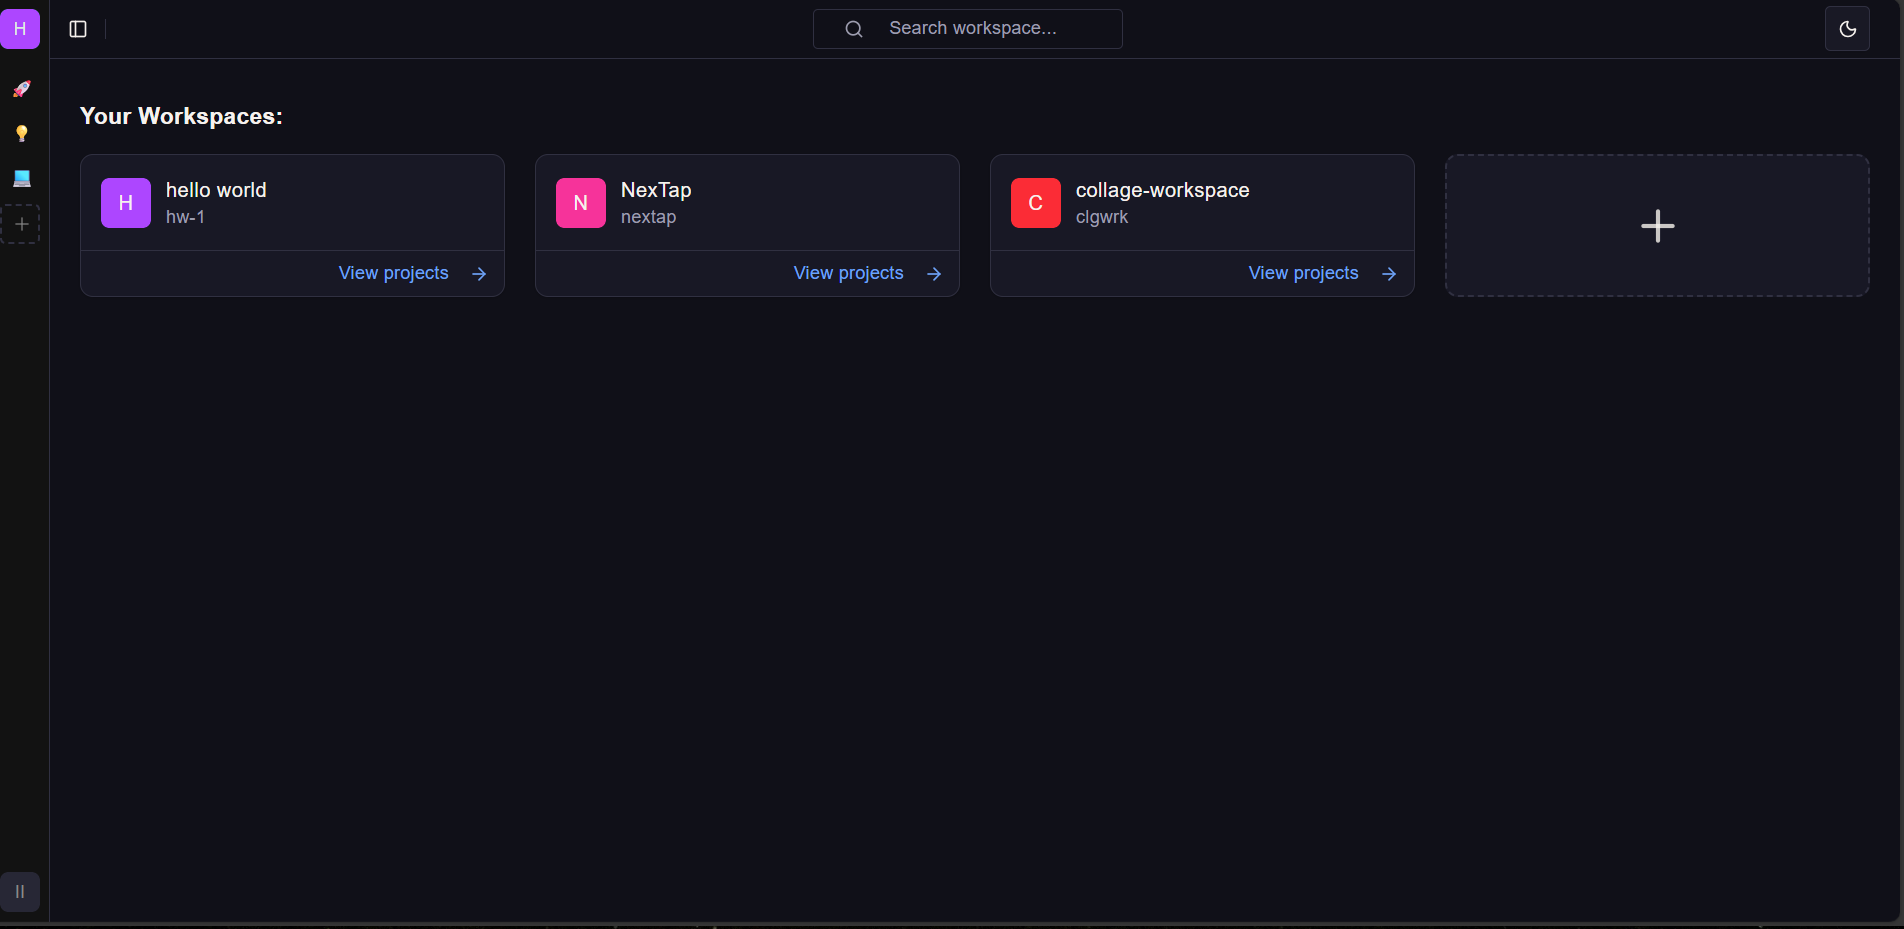
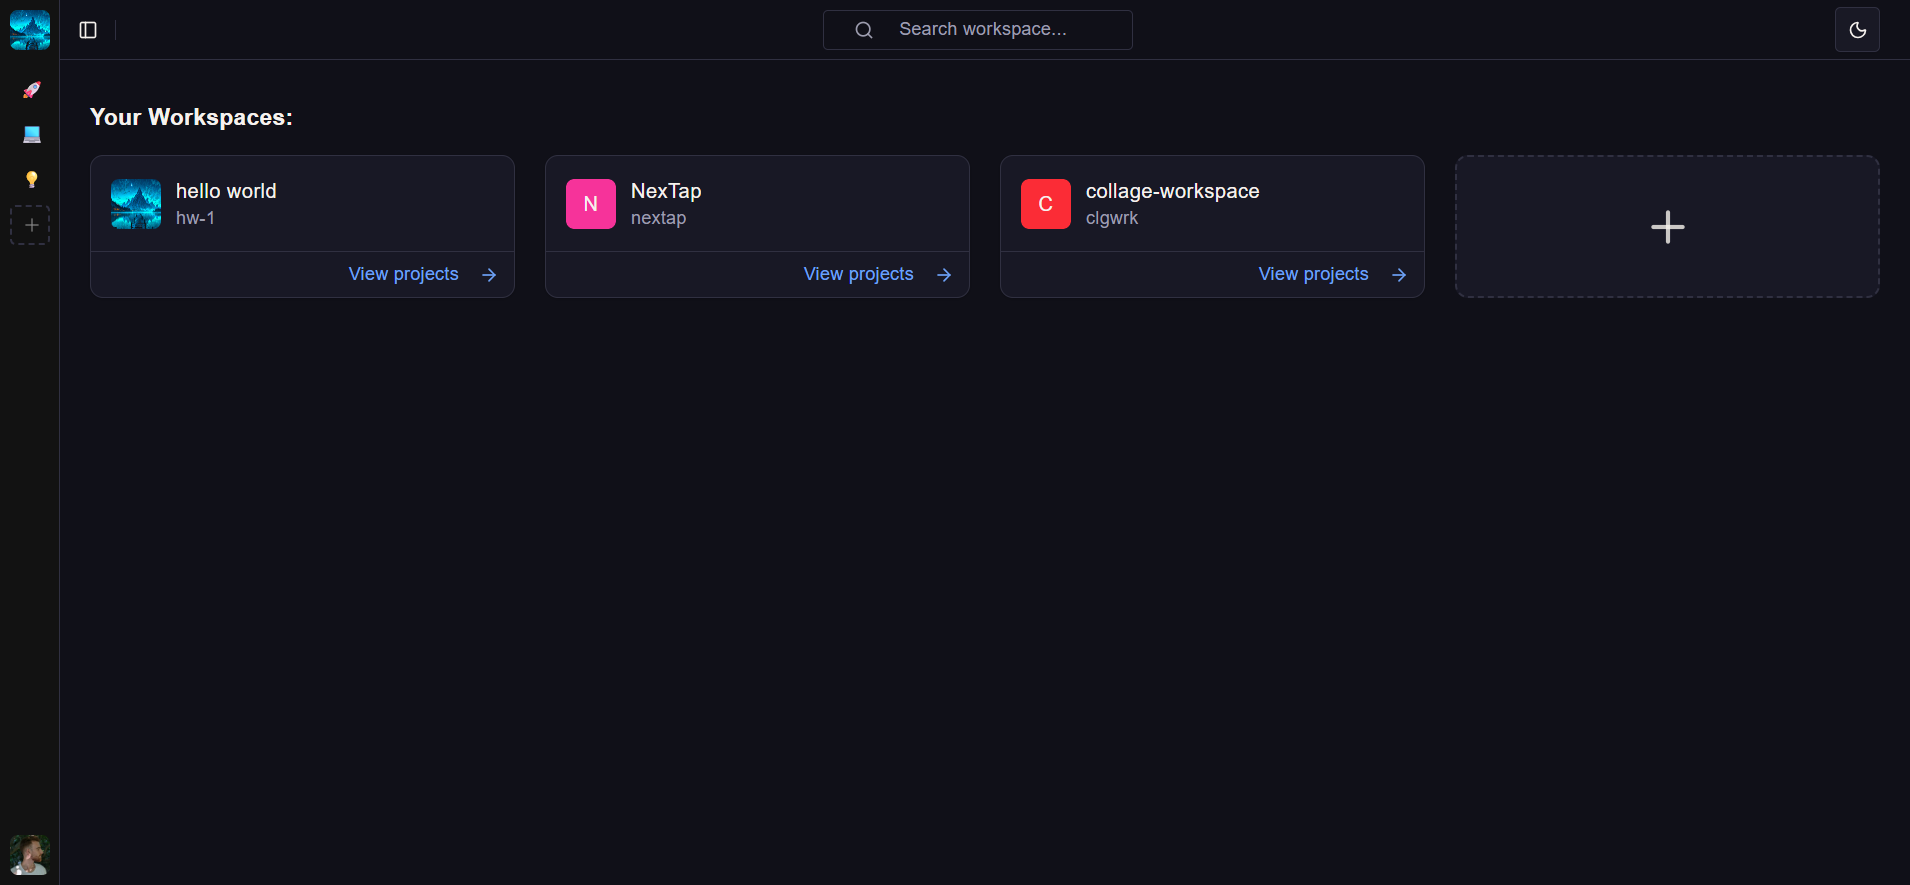
feat: Add new sections and components for portfolio
- Introduced AboutSection and TimelineAchievements components to enhance the About page.
- Updated layout metadata for improved SEO and branding.
- Created new ProjectsSection and AllProjectsSection components for better project display.
- Implemented TechnologiesSection to showcase technologies used in projects.
- Added ContactForm component for user inquiries with email integration.
- Refactored project-related components and organized project data structure.
- Added new project images and updated existing ones for better visual representation.
- Created shared components like SectionHeader, TextBox, and WrapperContainer for consistent styling.
- Added animated layout transitions for improved user experience.
- Included web app manifest for PWA support and added icons for better branding.

diff --git a/helpers/projects-array.ts b/helpers/projects-array.ts
@@ -1,8 +1,15 @@
-import { Betterauth } from "@/components/logos/better-auth-logo";
-import { ViteLogo } from "@/components/logos/vite-logo";
 import nexTapDarkScreen from "@/public/projects/nexTap-screen-dark.png";
 import nexTapLightScreen from "@/public/projects/nexTap-screen-light.png";
+import vibifyScreen from "@/public/projects/vibify-screen.png";
+import cryptoScreenLight from "@/public/projects/crypto-screen-light.png";
+import cryptoScreenDark from "@/public/projects/crypto-screen-dark.png";
+import pulseScreenLight from "@/public/projects/pulse-screen-light.png";
+import pulseScreenDark from "@/public/projects/pulse-screen-dark.png";
+
 import { Project } from "@/types/project-type";
+
+import { Betterauth } from "@/components/logos/better-auth-logo";
+import { ViteLogo } from "@/components/logos/vite-logo";
 import { RiSupabaseFill } from "react-icons/ri";
 import { SiClerk, SiDrizzle, SiHono, SiNextdotjs, SiPrisma, SiReact, SiShadcnui } from "react-icons/si";
 
@@ -33,8 +40,8 @@ export const projects: Project[] = [
             { icon: SiShadcnui, text: "Shadcn UI", color: "text-foreground" },
             { icon: SiHono, text: "Hono", color: "text-[#e36002]" },
         ],
-        lightImage: nexTapLightScreen,
-        darkImage: nexTapDarkScreen
+        lightImage: pulseScreenLight,
+        darkImage: pulseScreenDark
     },
     {
         title: "Vibify",
@@ -46,8 +53,8 @@ export const projects: Project[] = [
             { icon: SiReact, text: "React", color: "text-[#58c4dc]" },
             { icon: RiSupabaseFill, text: "Supabase", color: "text-[#006239]" },
         ],
-        lightImage: nexTapLightScreen,
-        darkImage: nexTapDarkScreen
+        lightImage: vibifyScreen,
+        darkImage: vibifyScreen
     },
     {
         title: "crypto-currency-project",
@@ -60,7 +67,7 @@ export const projects: Project[] = [
             { icon: SiClerk, text: "Clerk", color: "text-foreground" },
             { icon: SiPrisma, text: "Prisma ORM", color: "text-foreground" },
         ],
-        lightImage: nexTapLightScreen,
-        darkImage: nexTapDarkScreen
+        lightImage: cryptoScreenLight,
+        darkImage: cryptoScreenDark
     },
 ]

diff --git a/components/hero-sections.tsx b/components/hero-sections.tsx
@@ -3,6 +3,7 @@ import { Mail } from "lucide-react";
 import Link from "next/link";
 import { SiGithub, SiLinkedin } from "react-icons/si";
 import { AnimatedButton } from "./shared/animated-button";
+import { Tooltip, TooltipContent, TooltipTrigger } from "./ui/tooltip";
 
 const GITHUB_ACCOUNT_LINK = process.env.NEXT_PUBLIC_GITHUB_ACCOUNT_LINK!
 const LINKEDIN_ACCOUNT_LINK = process.env.NEXT_PUBLIC_LINKEDIN_ACCOUNT_LINK!
@@ -27,13 +28,22 @@ export function HeroSection() {
             </div>
             {/* Contact buttons */}
             <div className="flex sm:flex-wrap gap-3 mt-6  lg:justify-start">
-                <AnimatedButton>
-                    <Link
-                        href={`mailto:${MY_EMAIL}?subject=Portfolio Inquiry`} className="flex items-center gap-x-1">
-                        <Mail className="h-4 w-4" />
-                        Email Me
-                    </Link>
-                </AnimatedButton>
+                <Tooltip>
+                    <AnimatedButton>
+                        <div>
+                            <TooltipTrigger asChild>
+                                <Link
+                                    href={`mailto:${MY_EMAIL}?subject=Portfolio Inquiry`} className="flex items-center gap-x-1">
+                                    <Mail className="h-4 w-4" />
+                                    Contact Me
+                                </Link>
+                            </TooltipTrigger>
+                            <TooltipContent>
+                                Opens email to: {MY_EMAIL}
+                            </TooltipContent>
+                        </div>
+                    </AnimatedButton>
+                </Tooltip>
                 <AnimatedButton variant={"outline"}>
                     <Link href={LINKEDIN_ACCOUNT_LINK} target="_blank" className="flex items-center gap-x-1">
                         <SiLinkedin className="size-4" />

diff --git a/components/project/project-card.tsx b/components/project/project-card.tsx
@@ -18,19 +18,20 @@ interface ProjectCardProps {
 
 export function ProjectCard({ project }: ProjectCardProps) {
     return (
-        <Card className="p-0 group cursor-pointer relative overflow-hidden transition-all duration-500 hover:shadow-2xl hover:-translate-y-2">
-            <CardContent className="p-0 relative w-full h-48 overflow-hidden">
+        <Card className="p-0 w-full group cursor-pointer overflow-hidden transition-all duration-500 hover:shadow-2xl hover:-translate-y-2">
+            <CardContent className="p-0 relative w-full aspect-video">
                 <div className="absolute inset-0 bg-linear-to-br from-primary/10 to-transparent opacity-0 group-hover:opacity-100 transition-opacity duration-500 z-10" />
                 <Image
                     src={project.lightImage}
                     alt="NexTap project-light screen"
-                    className="transition-all duration-700 group-hover:scale-110 group-hover:rotate-1 dark:hidden"
+                    className="transition-all duration-500 group-hover:scale-105 dark:hidden object-fill"
                     fill
                 />
+
                 <Image
                     src={project.darkImage}
-                    alt="NexTap project-light screen"
-                    className="transition-all duration-700 group-hover:scale-110 group-hover:rotate-1 hidden dark:block"
+                    alt="NexTap project-dark screen"
+                    className="transition-all duration-500 group-hover:scale-105 hidden dark:block object-fill"
                     fill
                 />
                 {/* view code & view demo icons section*/}

diff --git a/app/layout.tsx b/app/layout.tsx
@@ -5,7 +5,7 @@ import { Merriweather, JetBrains_Mono } from "next/font/google";
 import "./globals.css";
 import { StripedPattern } from "@/components/magicui/striped-pattern";
 import { Footer } from "@/components/footer";
-import { AnimatedLayout } from "@/components/animated-layout";
+import { AnimatedLayout } from "@/components/shared/animated-layout";
 import { Toaster } from "sonner";
 
 const merriweather = Merriweather({
@@ -19,9 +19,31 @@ const jetBrains_Mono = JetBrains_Mono({
 });
 
 export const metadata: Metadata = {
-  title: "Create Next App",
-  description: "Generated by create next app",
-};
+  title: {
+    default: 'Ibrahim Ibrahim - Frontend Developer & React Specialist',
+    template: '%s | Ibrahim Ibrahim'
+  },
+  description: 'Passionate Frontend Developer specializing in React, Next.js, TypeScript, and modern web development. Creating fast, accessible, and visually stunning web applications with clean, maintainable code.',
+
+  keywords: [
+    'Frontend Developer',
+    'React Developer',
+    'Next.js Developer',
+    'TypeScript',
+    'Web Development',
+    'Portfolio',
+    'UI Developer',
+    'JavaScript Developer'
+  ],
+
+  openGraph: {
+    title: 'Ibrahim Ibrahim - Frontend Developer',
+    description: 'Specializing in React, Next.js, and modern web technologies',
+    type: 'website',
+    locale: 'en_US',
+    siteName: 'Ibrahim Ibrahim Portfolio',
+  },
+}
 
 export default function RootLayout({
   children,

diff --git a/components/project/projects-section.tsx b/components/project/projects-section.tsx
@@ -1,10 +1,10 @@
 "use client";
-import WrapperContainer from "@/components/wrapper";
+import WrapperContainer from "@/components/shared/wrapper";
 import { projects } from "@/helpers/projects-array";
 import Link from "next/link";
 import { ProjectCard } from "./project-card";
-import { AnimatedButton } from "./shared/animated-button";
-import { TextBox } from "./text-box";
+import { AnimatedButton } from "../shared/animated-button";
+import { TextBox } from "../shared/text-box";
 import { motion } from "motion/react";
 
 const containerVariants = {
@@ -29,12 +29,12 @@ const itemVariants = {
 };
 
 export function ProjectsSection() {
-  const subProjects = projects.slice(0, 3); // get only the first 3 projects
+  const subProjects = projects.slice(0, 2); // get only the first 2 projects
   return (
     <div className="relative">
       <WrapperContainer>
         <TextBox text="I love building things " />
-        <motion.div className="grid sm:grid-cols-2 md:grid-cols-3 gap-4 mb-4"
+        <motion.div className="grid sm:grid-cols-2 gap-4 mb-4"
           variants={containerVariants}
           initial="hidden"
           animate="visible">

diff --git a/app/contact/page.tsx b/app/contact/page.tsx
@@ -1,12 +1,17 @@
-import ContactForm from "@/components/contact-form";
-import SectionHeader from "@/components/section-header";
-import WrapperContainer from "@/components/wrapper";
+import ContactForm from "@/components/contact/contact-form";
+import SectionHeader from "@/components/shared/section-header";
+import WrapperContainer from "@/components/shared/wrapper";
+import { Metadata } from "next";
+
+export const metadata: Metadata = {
+    title: 'Contact',
+    description: 'Get in touch with Ibrahim Ibrahim for web development projects, collaborations, or opportunities. Available for full-time & part-time roles.',
+}
 
 export default function ContactPage() {
     return (
         <div className="pb-16">
             <div className="py-8 md:py-10 px-6 md:px-8 max-w-3xl">
-
                 <SectionHeader title="Contact Me" description={
                     <>
                         Currently open to software engineering opportunities. I specialize in building <span className="font-semibold text-primary/80"> modern, performant web applications </span> with a focus on clean UI and maintainable code architecture.

diff --git a/components/project/all-projects-section.tsx b/components/project/all-projects-section.tsx
@@ -1,16 +1,16 @@
 "use client";
 
-import WrapperContainer from "@/components/wrapper";
-import { ProjectCard } from "./project-card";
+import WrapperContainer from "@/components/shared/wrapper";
 import { projects } from "@/helpers/projects-array";
 import { motion } from "motion/react";
+import { ProjectCard } from "./project-card";
 
 export function AllProjectsSection() {
     return (
         <div className="relative">
             <WrapperContainer>
                 <motion.div
-                    className="grid sm:grid-cols-2 md:grid-cols-3 gap-4 mb-4">
+                    className="grid sm:grid-cols-2 gap-4 mb-4">
                     {projects.map((project, index) => (
                         <motion.div key={project.title}
                             initial={{ opacity: 0, y: 20 }}

diff --git a/components/contact/contact-form.tsx b/components/contact/contact-form.tsx
@@ -12,8 +12,8 @@ import emailjs from '@emailjs/browser';
 import { zodResolver } from "@hookform/resolvers/zod";
 import { Controller, useForm } from "react-hook-form";
 import { toast } from "sonner";
-import { InputGroup, InputGroupAddon, InputGroupText, InputGroupTextarea } from "./ui/input-group";
-import { Spinner } from "./ui/spinner";
+import { InputGroup, InputGroupTextarea, InputGroupAddon, InputGroupText } from "../ui/input-group";
+import { Spinner } from "../ui/spinner";
 
 const SERVICE_ID = process.env.NEXT_PUBLIC_EMAILJS_SERVICE_ID!;
 const TEMPLATE_ID = process.env.NEXT_PUBLIC_EMAILJS_TEMPLATE_ID!;

diff --git a/app/projects/page.tsx b/app/projects/page.tsx
@@ -1,5 +1,13 @@
-import { AllProjectsSection } from "@/components/all-projects-section";
-import SectionHeader from "@/components/section-header";
+import { AllProjectsSection } from "@/components/project/all-projects-section";
+import SectionHeader from "@/components/shared/section-header";
+import { Metadata } from "next";
+
+export const metadata: Metadata = {
+    title: 'Projects',
+    description: 'Explore my portfolio of web development projects built with React, Next.js, and modern frontend technologies.',
+}
+
+
 export default function ProjectsPage() {
     return (
         <div className="pb-16">

diff --git a/app/about/page.tsx b/app/about/page.tsx
@@ -1,5 +1,12 @@
-import { AboutSection } from "@/components/about-section";
-import { TimelineAchievements } from "@/components/timeline-achievements";
+import { AboutSection } from "@/components/about/about-section";
+import { TimelineAchievements } from "@/components/about/timeline-achievements";
+import { Metadata } from "next";
+
+export const metadata: Metadata = {
+    title: 'About',
+    description: 'Learn about my journey, skills, and passion for frontend development, React, and creating exceptional user experiences.',
+}
+
 export default function AboutPage() {
     return (
         <>

diff --git a/app/page.tsx b/app/page.tsx
@@ -1,7 +1,6 @@
 import { HeroSection } from "@/components/hero-sections";
-import { ProjectsSection } from "@/components/projects-section";
-import { TechnologiesSection } from "@/components/technologies-section";
-
+import { ProjectsSection } from "@/components/project/projects-section";
+import { TechnologiesSection } from "@/components/project/technologies-section";
 export default function Home() {
   return (
     <div className="pb-20">

diff --git a/components/about/timeline-item.tsx b/components/about/timeline-item.tsx
@@ -1,6 +1,6 @@
 "use client";
 import { AiOutlineCheckCircle } from "react-icons/ai";
-import { Badge } from "./ui/badge";
+import { Badge } from "../ui/badge";
 import { Timeline } from "@/types/timeline-type";
 import { motion } from "motion/react";
 import { badgeVariants, containerVariants, iconVariants, itemVariants } from "@/animations/timeline-variants";
